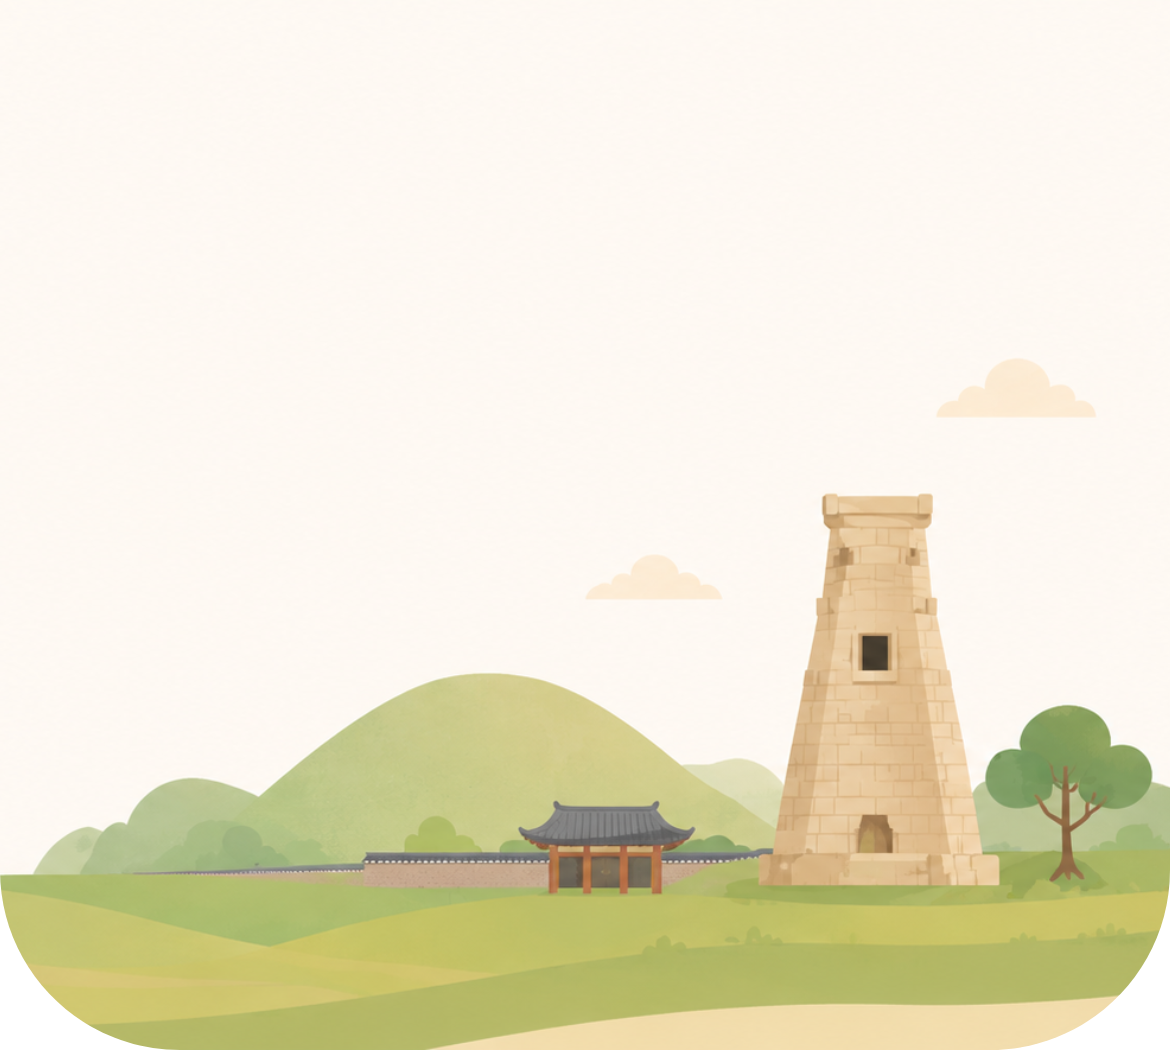
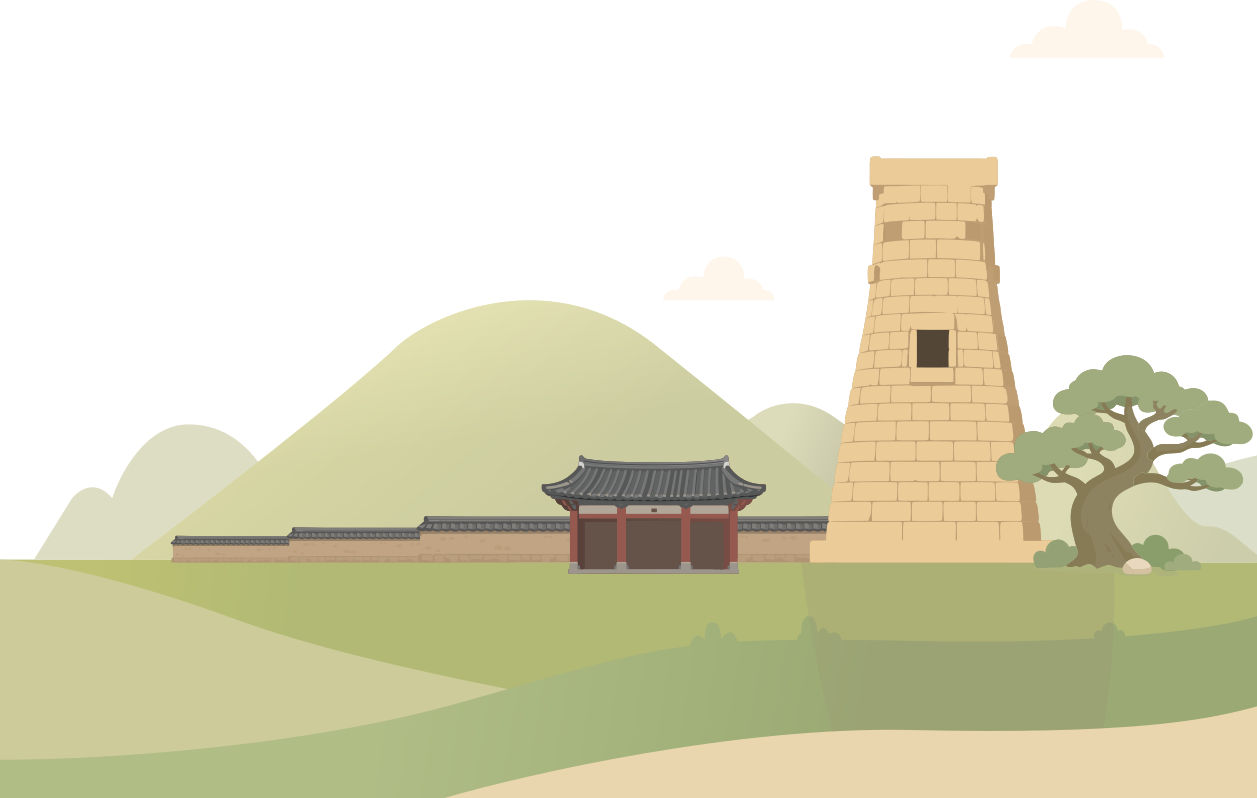
feat: 마이페이지 히어로 이미지 교체 및 프로필 정보 스타일 조정

diff --git a/app/(tabs)/mypage.tsx b/app/(tabs)/mypage.tsx
@@ -122,9 +122,9 @@ import {
 import { searchPlaceByName } from '@/utils/scheduleMappers';
 
 const SCREEN_WIDTH = Dimensions.get('window').width;
-const PROFILE_TOP_LANDSCAPE_HEIGHT = (SCREEN_WIDTH * 350) / 390;
-// 이미지 상단 여백을 당겨서 첨성대 탑 전체(꼭대기~받침대)가 카드에 가리지 않고 보이게 한다.
-const PROFILE_TOP_LANDSCAPE_OFFSET = -PROFILE_TOP_LANDSCAPE_HEIGHT * 0.32;
+const PROFILE_TOP_LANDSCAPE_HEIGHT = (SCREEN_WIDTH * 266) / 419;
+// 히어로 이미지를 타이틀 아래쪽으로 내려서 첨성대가 프로필 카드 뒤에 자연스럽게 깔리게 한다.
+const PROFILE_TOP_LANDSCAPE_OFFSET = SCREEN_WIDTH * 0.1;
 const PROFILE_BOTTOM_LANDSCAPE_HEIGHT = (SCREEN_WIDTH * 90) / 390;
 // 탭 바(마이페이지에서만 화면 위에 떠있음)의 둥근 위쪽 모서리(반지름 20)만큼만 이미지 아래쪽이
 // 탭 바 뒤로 살짝 들어가게 띄운다. 이미지를 늘리지 않고 원래 비율 그대로 유지하면서, 탭 바
@@ -2033,7 +2033,14 @@ const styles = StyleSheet.create({
   },
   pageTitle: { fontSize: 22, fontWeight: '700', color: Colors.textBody1 },
   profileSection: { position: 'relative' },
-  profileTopLandscape: { position: 'absolute', left: 0, right: 0, top: 0 },
+  profileTopLandscape: {
+    position: 'absolute',
+    left: 0,
+    right: 0,
+    top: 0,
+    borderBottomLeftRadius: 60,
+    borderBottomRightRadius: 60,
+  },
   profileBottomLandscape: { position: 'absolute', left: 0, right: 0, bottom: 0 },
   profileCard: {
     flexDirection: 'row',
@@ -2072,20 +2079,22 @@ const styles = StyleSheet.create({
   },
   primaryBadgeText: { fontSize: 11, fontWeight: '600', color: Colors.white },
   profileInfo: { flex: 1, justifyContent: 'center', gap: 6, paddingTop: 8 },
-  nameRow: { flexDirection: 'row', alignItems: 'center', gap: 6 },
-  dogName: { fontSize: 20, fontWeight: '700', color: Colors.textBody1 },
-  pawIcon: { width: 16, height: 16 },
+  nameRow: { flexDirection: 'row', alignItems: 'center', gap: 6, marginTop: -3 },
+  dogName: { fontSize: 22, fontWeight: '700', color: Colors.textBody1 },
+  pawIcon: { width: 20, height: 20 },
   metaRow: { flexDirection: 'row', alignItems: 'center', gap: 6 },
-  dogMeta: { fontSize: 13, color: Colors.textBody2 },
+  dogMeta: { fontSize: 14, fontWeight: '300', color: '#6B6260' },
   personalityChip: {
     flexDirection: 'row',
     alignItems: 'center',
     gap: 4,
     alignSelf: 'flex-start',
+    height: 25,
     backgroundColor: Colors.secondaryTint,
+    borderWidth: 0.5,
+    borderColor: '#C0DDD0',
     borderRadius: Radius.full,
     paddingHorizontal: 10,
-    paddingVertical: 4,
     marginTop: 4,
   },
   personalityChipIcon: { width: 10, height: 14 },
